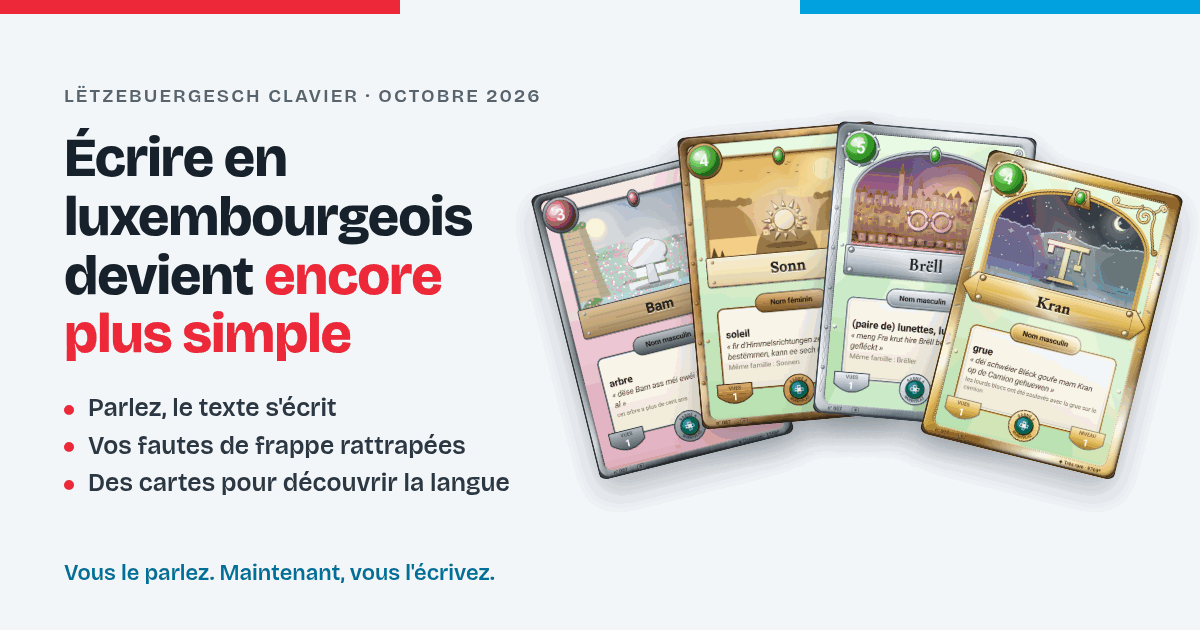
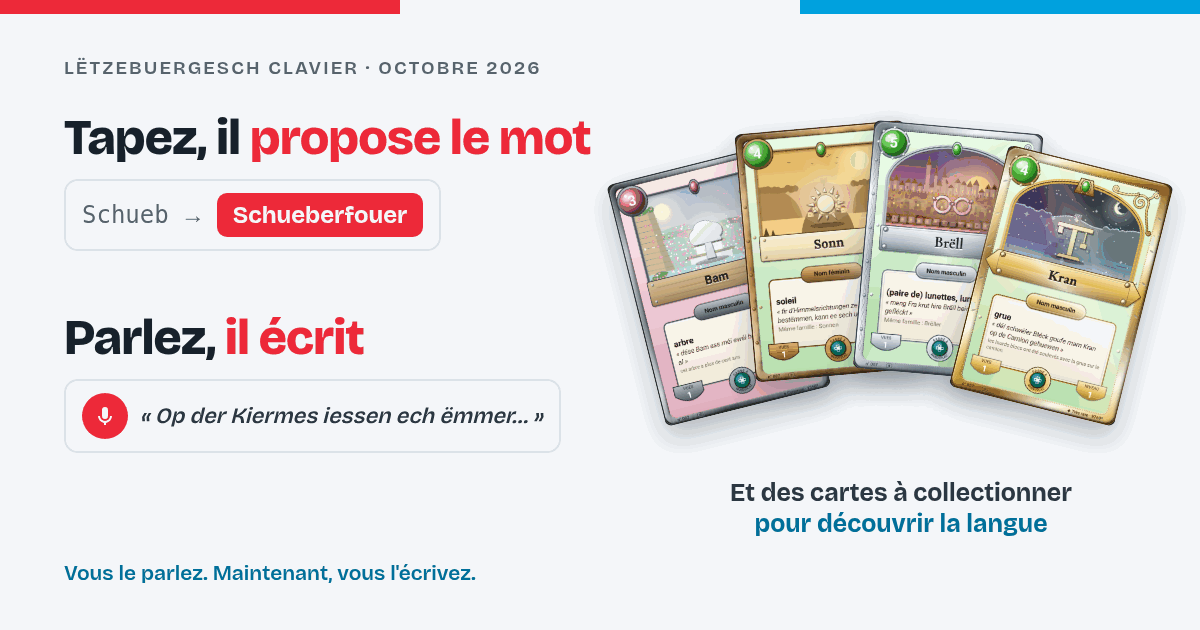
docs(newsletter): la vignette de partage suit la hiérarchie des messages
La suggestion des mots et la dictée au premier rang, à égalité ;
les cartes à collectionner au second.

Claude-Session: https://claude.ai/code/session_015rgu68asHiFTzPdU6L99gV

diff --git a/docs/newsletter/2026-10.html b/docs/newsletter/2026-10.html
@@ -4,21 +4,21 @@
 <meta charset="utf-8">
 <meta name="viewport" content="width=device-width, initial-scale=1, viewport-fit=cover">
 <title>Lëtzebuergesch Clavier, octobre 2026</title>
-<meta name="description" content="Dictée vocale, fautes de frappe rattrapées, cartes à collectionner pour découvrir le luxembourgeois : les nouveautés d'octobre du clavier luxembourgeois pour Android.">
+<meta name="description" content="Tapez, il propose le mot. Parlez, il écrit. Et des cartes à collectionner pour découvrir le luxembourgeois : les nouveautés d'octobre du clavier luxembourgeois pour Android.">
 <link rel="icon" type="image/x-icon" href="../favicon.ico">
 <meta property="og:type" content="article">
 <meta property="og:site_name" content="Lëtzebuergesch Clavier">
 <meta property="og:locale" content="fr_FR">
 <meta property="og:title" content="Écrire en luxembourgeois devient encore plus simple">
-<meta property="og:description" content="Dictée vocale, fautes de frappe rattrapées, cartes à collectionner pour découvrir le luxembourgeois : les nouveautés d'octobre du clavier luxembourgeois pour Android.">
+<meta property="og:description" content="Tapez, il propose le mot. Parlez, il écrit. Et des cartes à collectionner pour découvrir le luxembourgeois : les nouveautés d'octobre du clavier luxembourgeois pour Android.">
 <meta property="og:url" content="https://famibelle.github.io/LuxKeyb/newsletter/2026-10.html">
 <meta property="og:image" content="https://famibelle.github.io/LuxKeyb/newsletter/2026-10/partage.png">
 <meta property="og:image:width" content="1200">
 <meta property="og:image:height" content="630">
-<meta property="og:image:alt" content="Quatre cartes du carnet, de l'étain à l'or, et le titre de la lettre d'octobre 2026">
+<meta property="og:image:alt" content="Tapez, il propose le mot. Parlez, il écrit. Et des cartes à collectionner pour découvrir la langue.">
 <meta name="twitter:card" content="summary_large_image">
 <meta name="twitter:title" content="Écrire en luxembourgeois devient encore plus simple">
-<meta name="twitter:description" content="Dictée vocale, fautes de frappe rattrapées, cartes à collectionner pour découvrir le luxembourgeois : les nouveautés d'octobre du clavier luxembourgeois pour Android.">
+<meta name="twitter:description" content="Tapez, il propose le mot. Parlez, il écrit. Et des cartes à collectionner pour découvrir le luxembourgeois : les nouveautés d'octobre du clavier luxembourgeois pour Android.">
 <meta name="twitter:image" content="https://famibelle.github.io/LuxKeyb/newsletter/2026-10/partage.png">
 <link rel="preconnect" href="https://fonts.googleapis.com">
 <link rel="stylesheet" href="https://fonts.googleapis.com/css2?family=Bricolage+Grotesque:opsz,wght@12..96,500;12..96,700;12..96,800&family=Literata:ital,opsz,wght@0,7..72,400;0,7..72,600;1,7..72,400&display=swap">
